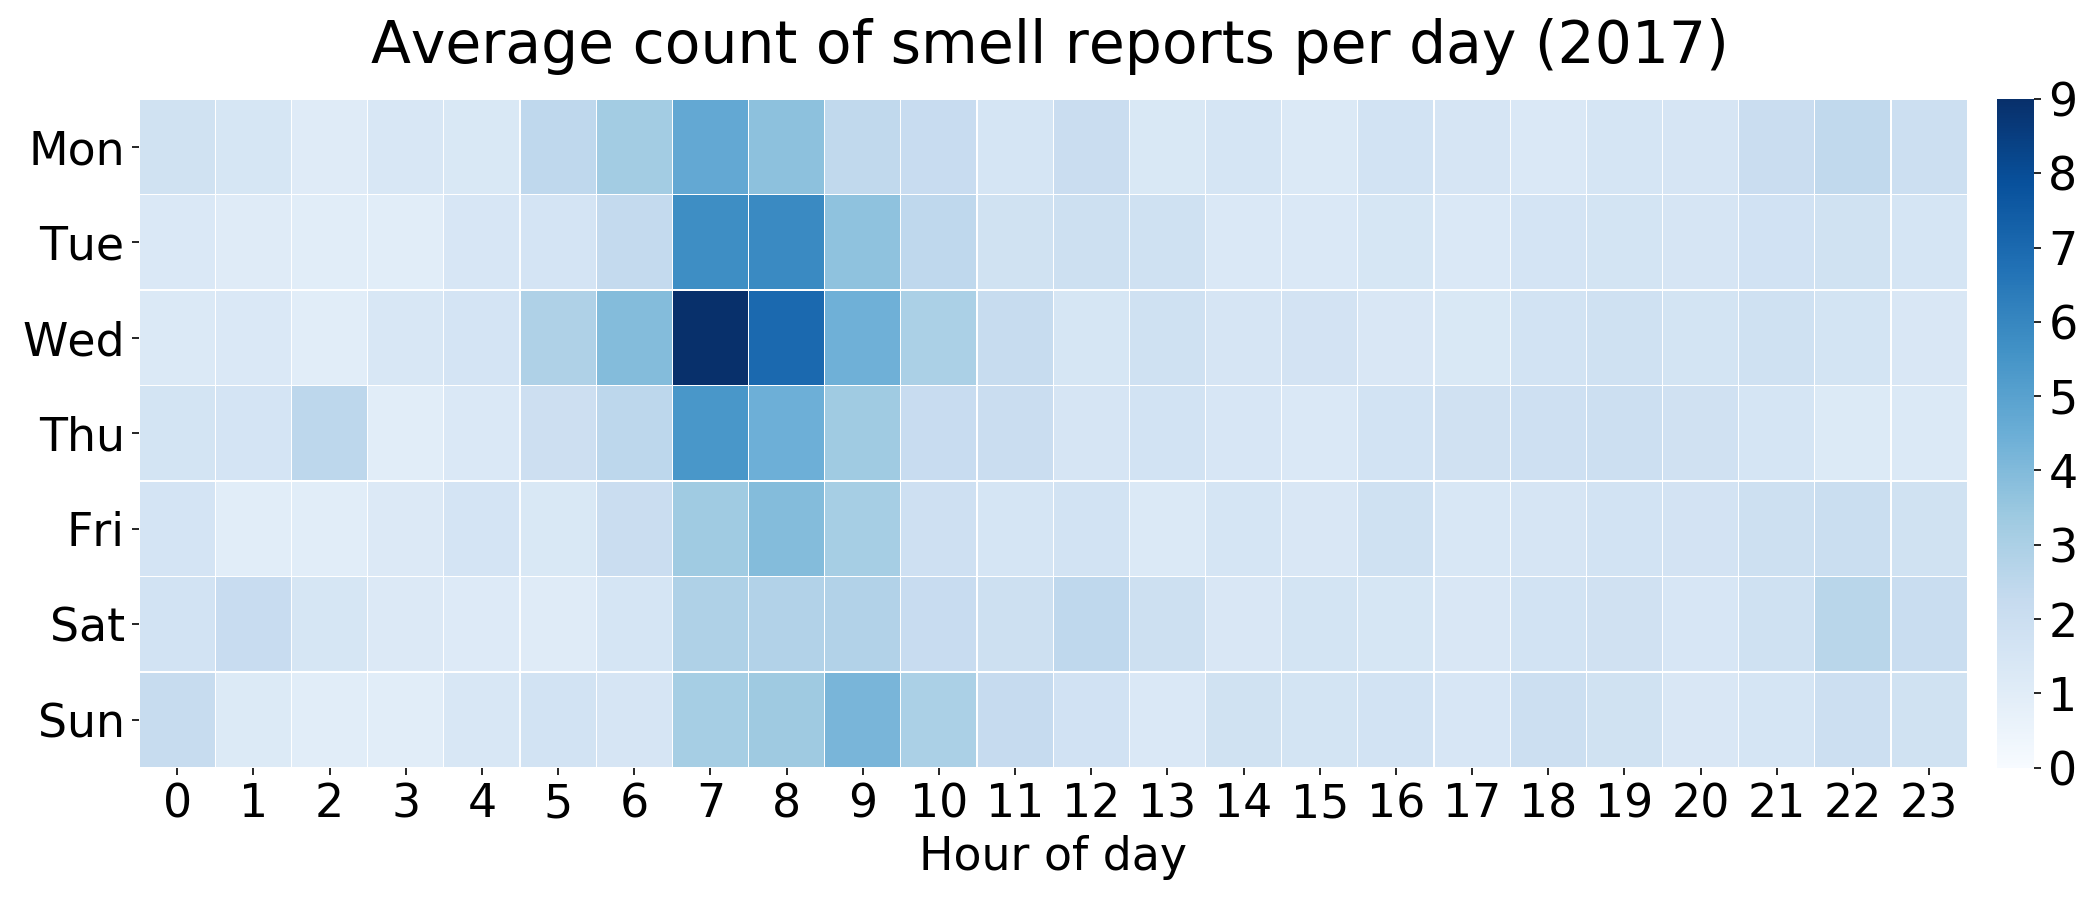
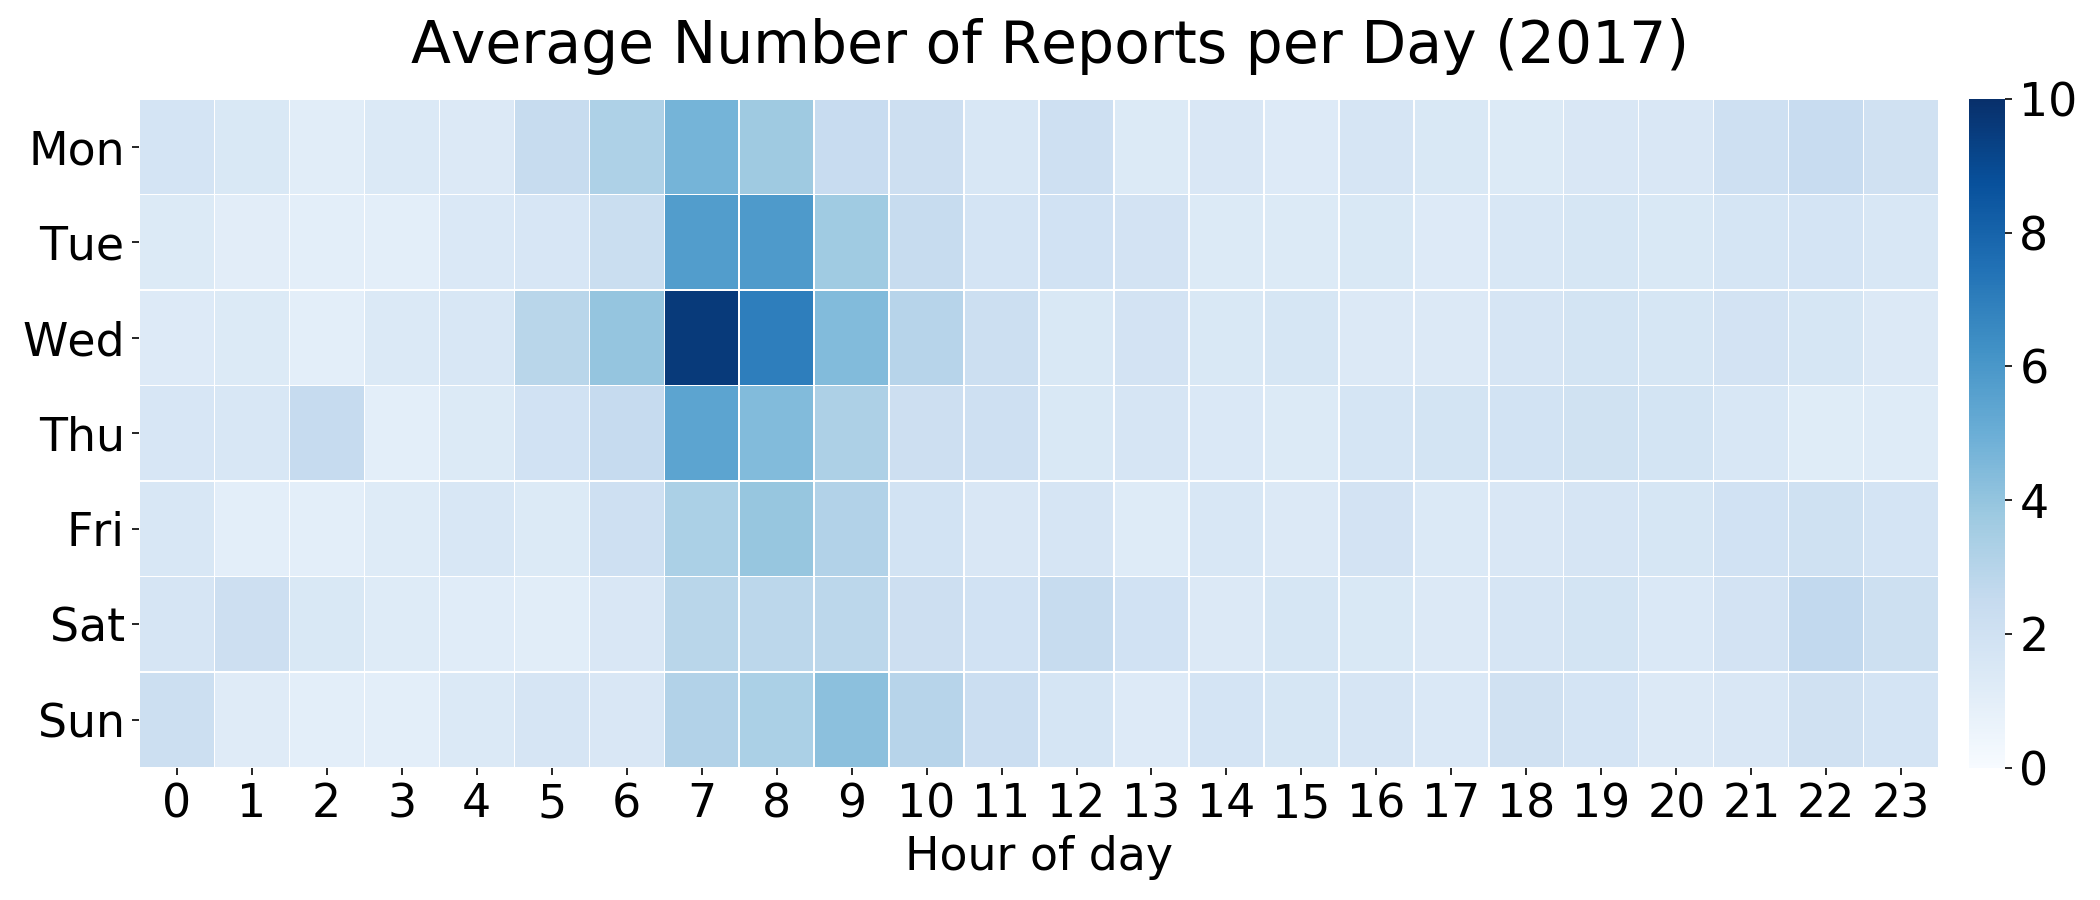
Update the analysis page.

Changed region(s): [[0.1857, 0.0933, 0.9905, 0.9956], [0.1548, 0.0, 0.8357, 0.0933], [0.0619, 0.8711, 0.0929, 0.9022]]

diff --git a/analysis.html b/analysis.html
@@ -69,16 +69,18 @@
             <h2>Distribution of Smell Reports by Hour and Day</h2>
             <hr>
             <p class="text">
-              To investigate the concentration of smell reports across time, we compute the average count of smell reports per day, aggregated by hour of day and day of week.
+              To investigate the concentration of smell reports across time, we compute the average number of smell reports per day, aggregated by hour of day, day of week, and month.
               The following figures show that our users usually submit reports in the morning and rarely at nighttime.
               Also, weekdays have more smell reports than weekends.
             </p>
             <img class="image center" src="img/smell_dh_2018.png" style="max-width: 650px;">
+            <img class="image center" src="img/smell_mh_2018.png" style="max-width: 650px;">
             <p class="text">
               The patterns in 2017 and 2018 are similar.
               One key difference is that the reports on 2018 are more evenly distributed, while the reports on 2017 are concentrated on Tuesday, Wednesday, and Thursday morning.
             </p>
             <img class="image center" src="img/smell_dh_2017.png" style="max-width: 650px;">
+            <img class="image center" src="img/smell_mh_2017.png" style="max-width: 650px;">
             <h2>What People Said in Smell Reports</h2>
             <hr>
             <p class="text">
@@ -101,7 +103,7 @@
               Notice that this map indicates citizen engagement but does not represent the severity of pollution.
             </p>
             <p class="text text-center" style="font-size: 22px; margin-bottom: 0;">
-              Number of Smell Reports by Region (2018)
+              Number of Reports by Region (2018)
             </p>
             <iframe class="iframe-in-body" src="smell_map.html?year=2018"></iframe>
             <p class="text">
@@ -110,7 +112,7 @@
               One major difference is that the number of reports from zipcode 15218 in 2018 are increased significantly (almost a factor of two) when compared to the data in 2017.
             </p>
             <p class="text text-center" style="font-size: 22px; margin-bottom: 0;">
-              Number of Smell Reports by Region (2017)
+              Number of Reports by Region (2017)
             </p>
             <iframe class="iframe-in-body" src="smell_map.html?year=2017"></iframe>
           </div>
